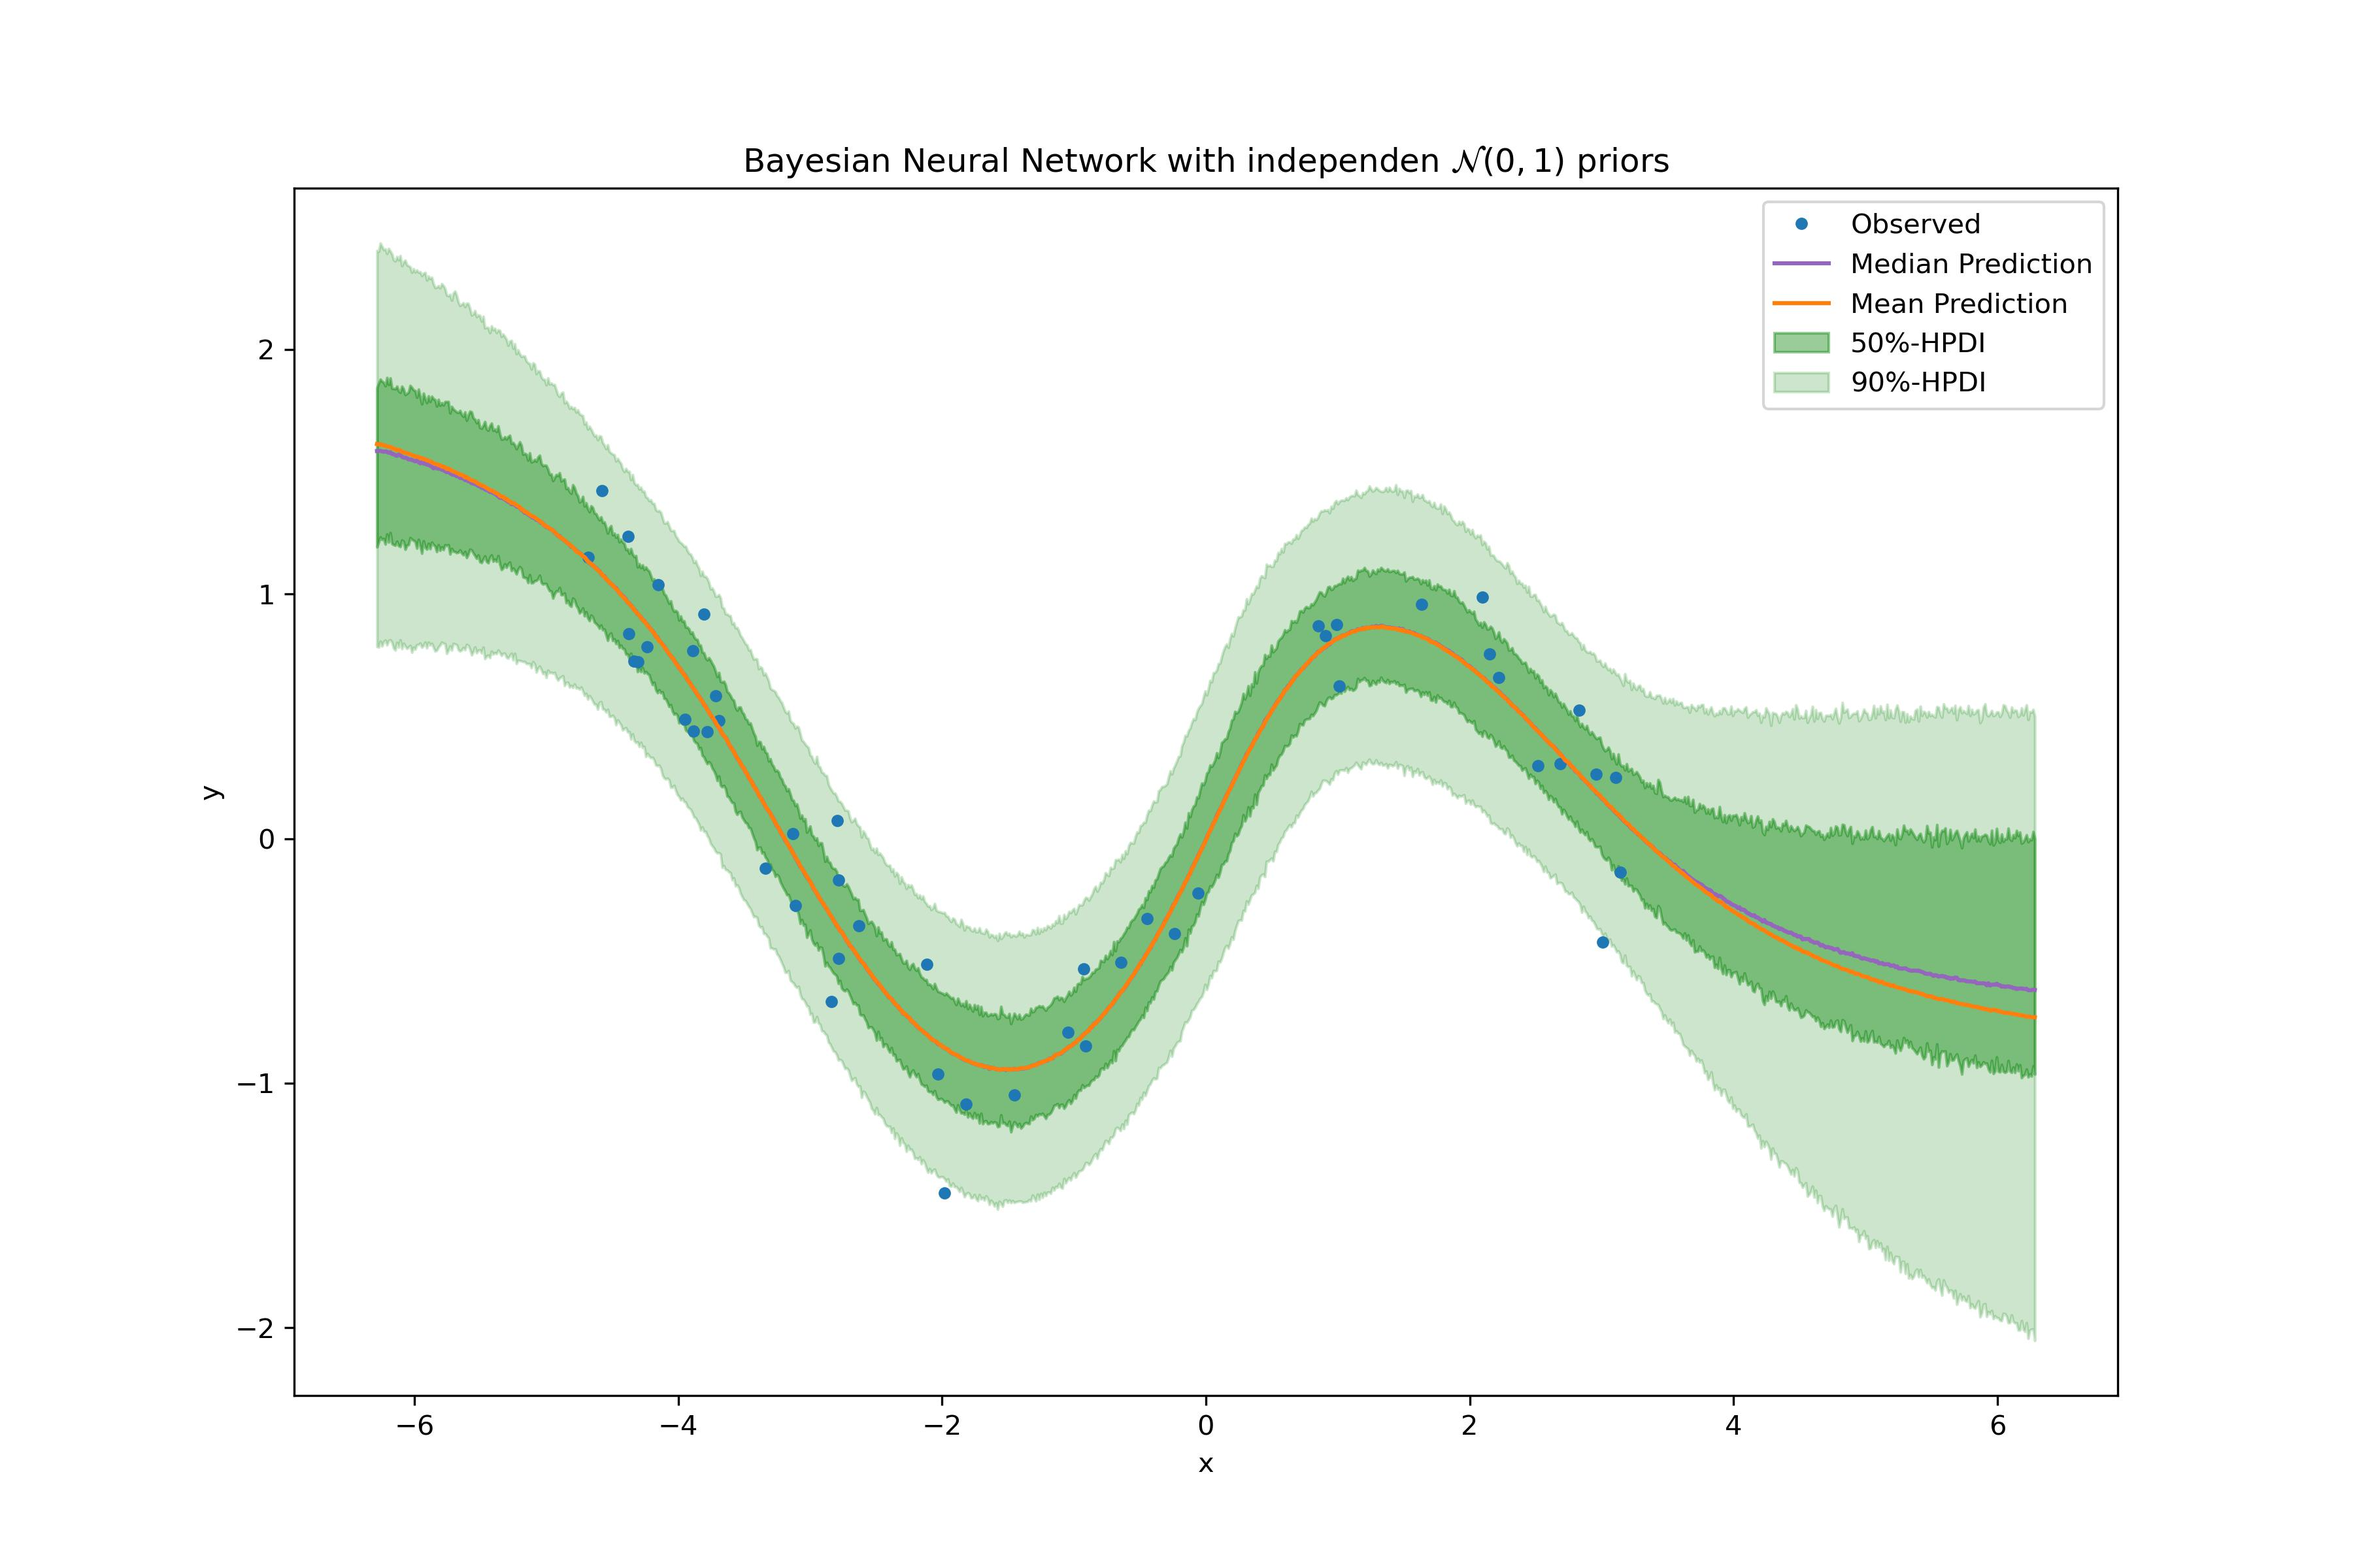
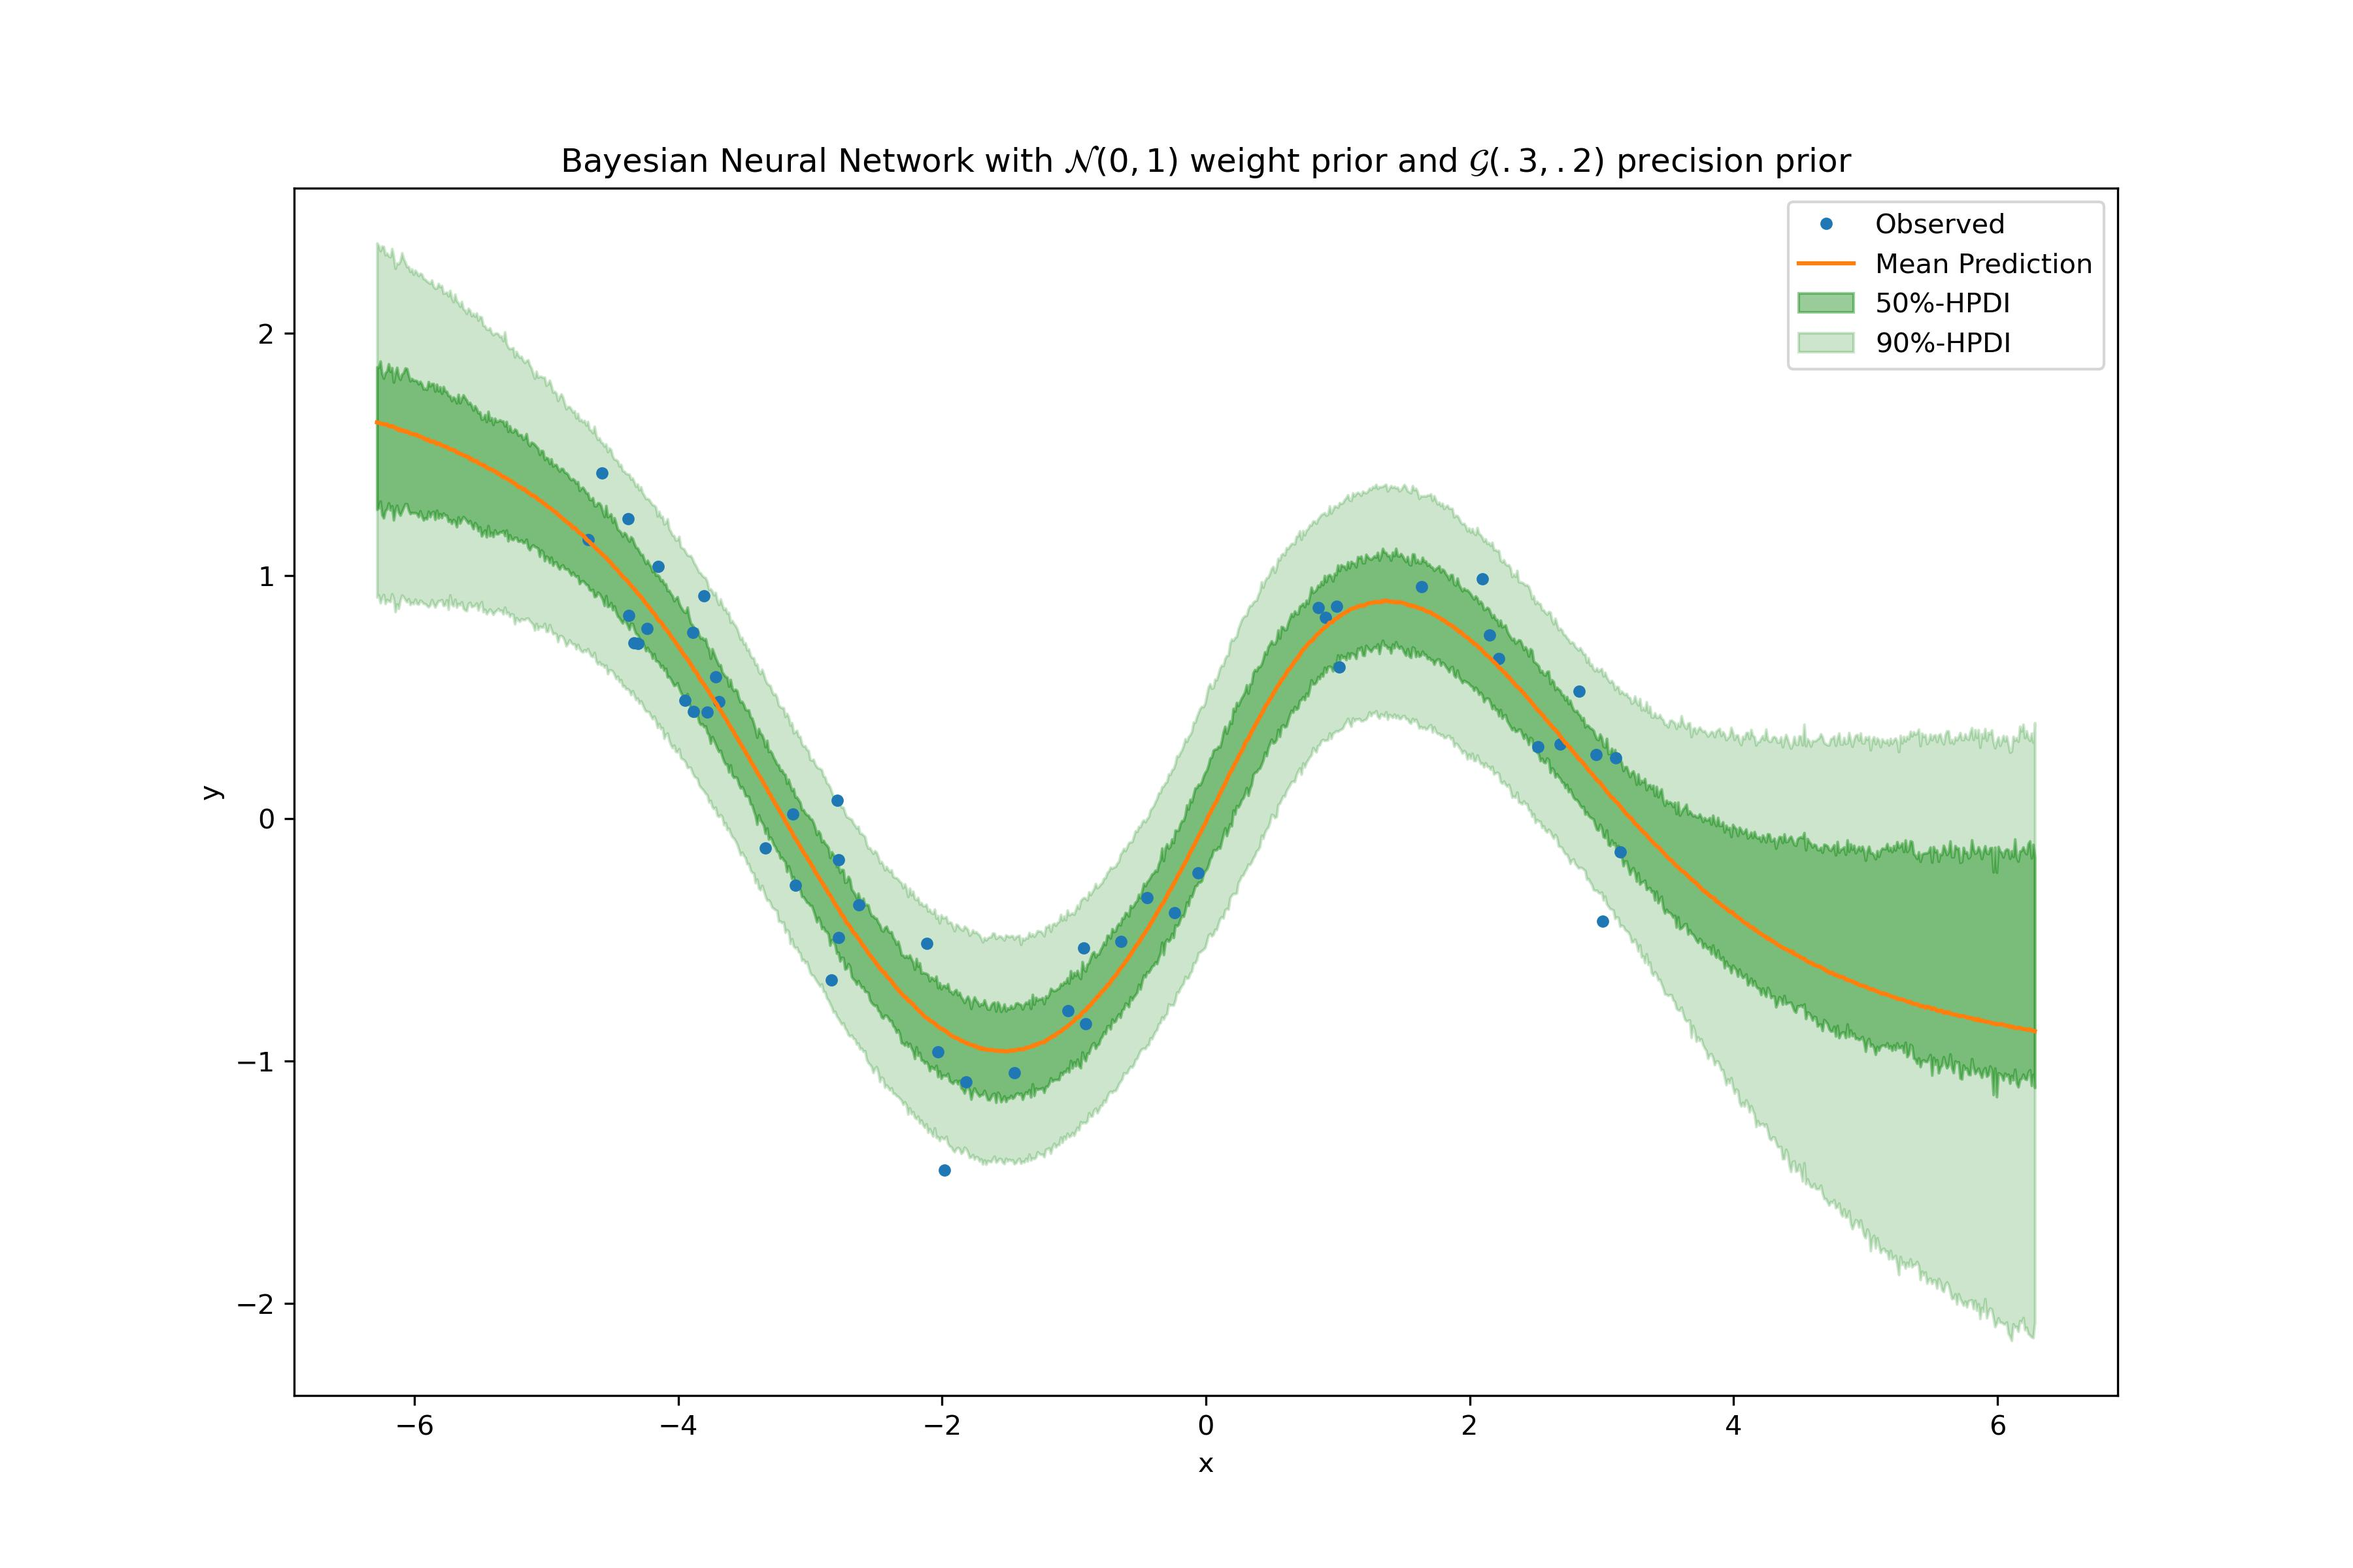
uninformative prior

diff --git a/README.md b/README.md
@@ -32,7 +32,7 @@ def BNN(X, y=None):
 
     mean = deterministic("mean", out3)
 
-    prec_obs = sample("prec_obs", Gamma(3.0, 1.0))
+    prec_obs = sample("prec_obs", Gamma(0.3, 0.2))
     scale = 1.0 / jnp.sqrt(prec_obs)
 
     with plate("data", size=N, dim=-2):
@@ -40,6 +40,11 @@ def BNN(X, y=None):
 ```
 
 ![Bayesian Neural Net](./plots/BayesianDNN.jpg)
+
+### Effect of the sample size on the predictive uncertainty with a G(6,6) prior on precision
+| 50 samples | 100 samples | 500 samples |
+| :--: | :--: | :--: |
+| <img src="./plots/BayesianDNN_50.jpg" width="200"/> | <img src="./plots/BayesianDNN_100.jpg" width="200"/> | <img src="./plots/BayesianDNN_500.jpg" width="200"/> |
 
 ## MNIST & Corrupted MNIST
 
